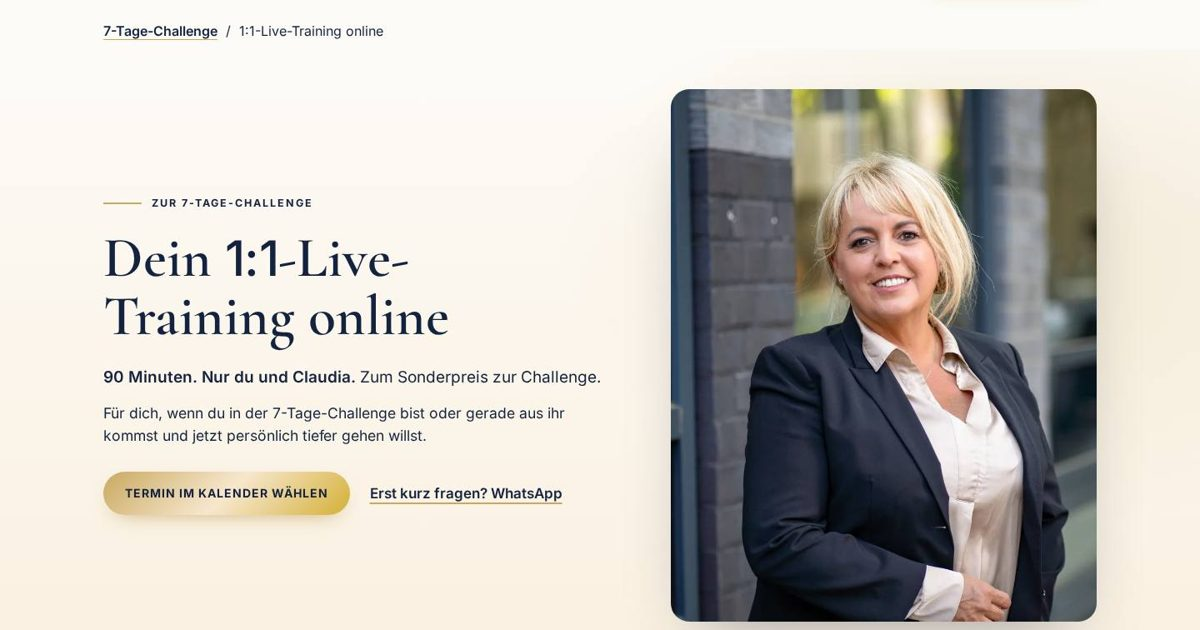
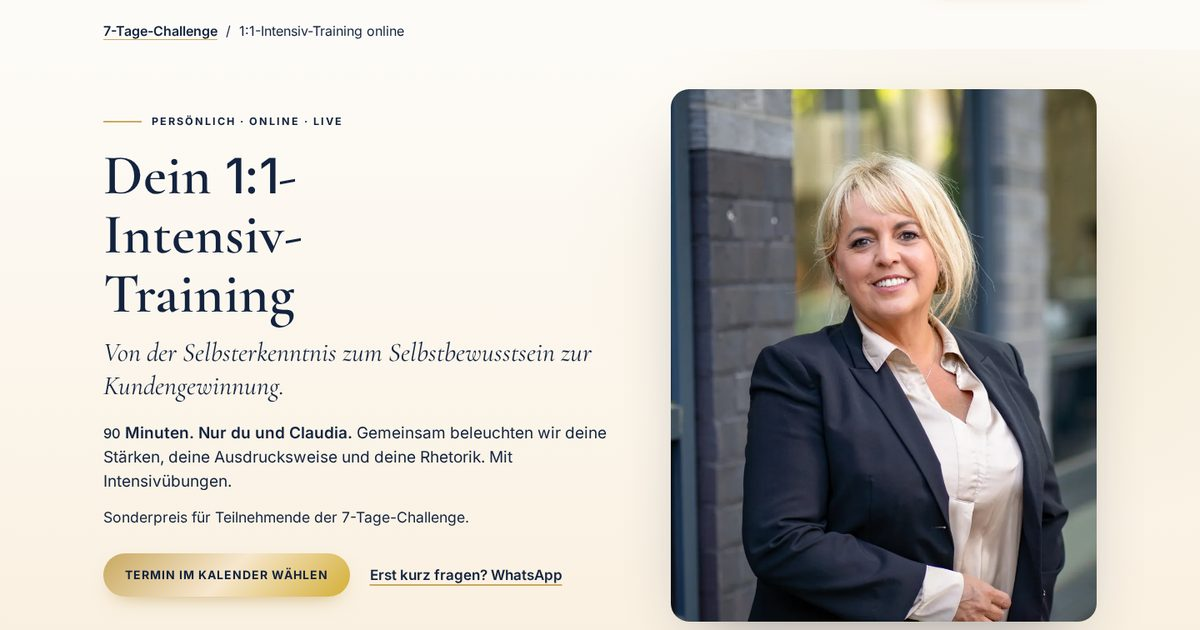
Übersicht: Karte 05 1:1-Intensiv-Training mit neuem Vorschaubild und Vorschau-Link

diff --git a/uebersicht-livegang.html b/uebersicht-livegang.html
@@ -755,10 +755,10 @@ section.knapp{padding-block:72px}
 <div class="ue-innen"><div class="ue-zeile"><span class="amp gruen">live</span><small>live seit 15.10.</small></div>
 <h3><span class="ue-nr">04</span>Mentoring-Inhalte</h3><p>Für Teilnehmende nach der Buchung: alle 12 Termine, Kalender, Start, Impulse.</p>
 <div class="ue-links"><a href="mentoring-inhalte.html">Vorschau ansehen</a><a href="https://claudiaconen.com/mentoring-inhalte">Live ansehen: claudiaconen.com/mentoring-inhalte</a></div></div></article><p class="ue-status ue-status--on"><b>ONLINE</b> · diese Fassung ist live</p></div>
-<div class="ue-zelle"><article class="ue-karte glas auf"><a class="ue-bild ue-og" href="p/uebersicht/og-1zu1-training.jpg"><img src="p/uebersicht/og-1zu1-training.jpg" alt="" width="1200" height="630" loading="lazy"></a>
-<div class="ue-innen"><div class="ue-zeile"><span class="amp gelb">1 offen</span><small>Kalender-Link fehlt · neu 17.10.</small></div>
-<h3><span class="ue-nr">05</span><span class="ue-ausruf" title="Hier ist noch ein Fehler">!</span><span style="font-family:Inter,system-ui,sans-serif;font-size:.8em;font-weight:500">1:1</span>-Live-Training online</h3><ul class="ue-fehler"><li>Kalender-Link fehlt: Der Knopf „Termin wählen“ führt noch nirgendwohin.</li></ul><p>90 Minuten, 173 € zzgl. MwSt., Sonderpreis zur Challenge. Was wir herausfinden, Prompts und Workbooks, für wen es passt. Knopf zu deinem Google-Kalender. Hinweis dazu direkt unter der Challenge-Anmeldung.</p>
-<div class="ue-links"><a href="p/uebersicht/og-1zu1-training.jpg">Bild ansehen</a><span>künftig: claudiaconen.com/1zu1-training</span></div></div></article><p class="ue-status ue-status--off"><b>OFFLINE</b> · fertig, wartet auf Kalender-Link und „hochladen“</p></div>
+<div class="ue-zelle"><article class="ue-karte glas auf"><a class="ue-bild ue-og" href="https://deploy-preview-7--claudiaconenwebsite.netlify.app/1zu1-training"><img src="p/uebersicht/og-1zu1-training.jpg?v=f5be9b88" alt="" width="1200" height="630" loading="lazy"></a>
+<div class="ue-innen"><div class="ue-zeile"><span class="amp gelb">1 offen</span><small>Buchungslinks fehlen · neu 17.10.</small></div>
+<h3><span class="ue-nr">05</span><span class="ue-ausruf" title="Hier ist noch ein Fehler">!</span><span style="font-family:Inter,system-ui,sans-serif;font-size:.8em;font-weight:500">1:1</span>-Intensiv-Training</h3><ul class="ue-fehler"><li>Kalender-Link fehlt: Der Knopf „Termin wählen“ führt noch nirgendwohin.</li></ul><p>Einzeltermin 90 Minuten (173 € zzgl. MwSt.) oder Paket 3 × 90 Minuten (469 €), Sonderpreis für Challenge-Teilnehmende. Versprechen „Von der Selbsterkenntnis zum Selbstbewusstsein zur Kundengewinnung“, Brücke zum Mentoring.</p>
+<div class="ue-links"><a href="https://deploy-preview-7--claudiaconenwebsite.netlify.app/1zu1-training">Vorschau ansehen</a><span>künftig: claudiaconen.com/1zu1-training</span></div></div></article><p class="ue-status ue-status--off"><b>OFFLINE</b> · fertig, wartet auf Kalender-Link und „hochladen“</p></div>
 <div class="ue-zelle"><article class="ue-karte glas auf"><a class="ue-bild" href="mitglieder.html"><img src="p/uebersicht/mitglieder.webp" alt="" width="640" height="400" loading="lazy"></a>
 <div class="ue-innen"><div class="ue-zeile"><span class="amp gelb">1 offen</span><small>braucht Login + Datenbank</small></div>
 <h3><span class="ue-nr">06</span><span class="ue-ausruf" title="Hier ist noch ein Fehler">!</span>Mitgliederbereich</h3><ul class="ue-fehler"><li>Die Anmeldefelder senden noch nichts (nur Vorschau). Vor dem Livegang anschließen.</li></ul><p>Eingang mit zwei Türen: Challenge und Mentoring, getrennte Zugänge.</p>
